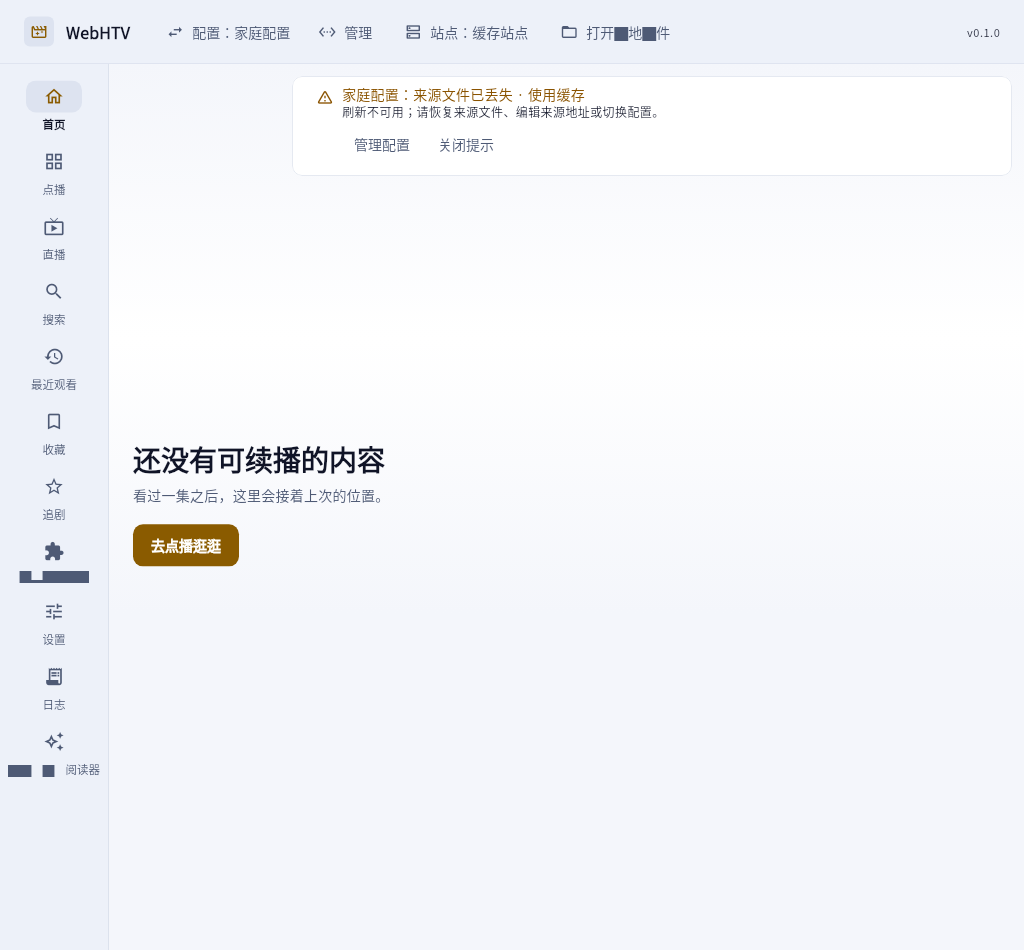
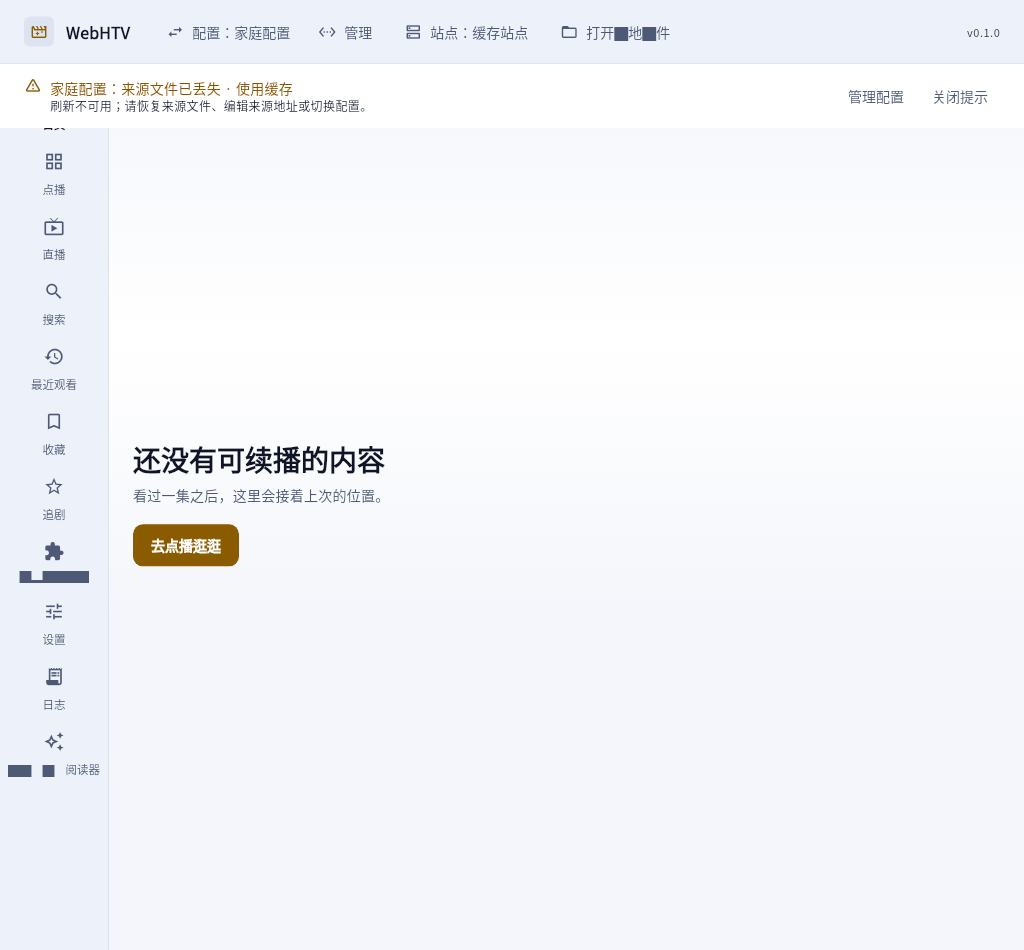
修复：启动通知保留顶部横条原位，仅改为悬浮不占布局
横条位置、宽度、文案与按钮保持不变，从布局流中移出改为悬浮层；关闭后侧栏与内容区不再跳动。补充全宽与贴顶位置的回归断言。

Changed region(s): [[0.0, 0.0611, 0.625, 0.1832], [0.9062, 0.0916, 0.9688, 0.1221], [0.8125, 0.0916, 0.875, 0.1221]]

diff --git a/apps/desktop-flutter/lib/ui/app.dart b/apps/desktop-flutter/lib/ui/app.dart
@@ -1052,72 +1052,47 @@ class _AppShellState extends State<AppShell> {
             onOpenLocalFile: _openLocalMediaFile,
           ),
           Expanded(
-            child: Row(
+            child: Stack(
+              fit: StackFit.expand,
               children: [
-                AppSideBar(
-                  section: _section,
-                  updateCount: _state.followingUpdateCount,
-                  onSelect: (value) => setState(() {
-                    // 手动进搜索页 = 一次全新的搜索，丢掉首页带过来的词。
-                    if (value == ShellSection.search) {
-                      _pendingSearchKeyword = null;
-                    }
-                    _section = value;
-                  }),
-                ),
-                const VerticalDivider(width: 1),
-                Expanded(
-                  child: _WallpaperBackdrop(
-                    url: _state.config?.wallpaper,
-                    child: Stack(
-                      fit: StackFit.expand,
-                      children: [
-                        AppShellTransition(
+                Row(
+                  children: [
+                    AppSideBar(
+                      section: _section,
+                      updateCount: _state.followingUpdateCount,
+                      onSelect: (value) => setState(() {
+                        // 手动进搜索页 = 一次全新的搜索，丢掉首页带过来的词。
+                        if (value == ShellSection.search) {
+                          _pendingSearchKeyword = null;
+                        }
+                        _section = value;
+                      }),
+                    ),
+                    const VerticalDivider(width: 1),
+                    Expanded(
+                      child: _WallpaperBackdrop(
+                        url: _state.config?.wallpaper,
+                        child: AppShellTransition(
                           sectionIndex: _section.index,
                           child: _buildContent(),
                         ),
-                        if (startupNotifications.isNotEmpty)
-                          Positioned.fill(
-                            child: Padding(
-                              padding: const EdgeInsets.all(AppSpace.md),
-                              child: Align(
-                                alignment: Alignment.topRight,
-                                child: ConstrainedBox(
-                                  constraints: const BoxConstraints(
-                                    maxWidth: 720,
-                                  ),
-                                  child: SingleChildScrollView(
-                                    primary: false,
-                                    child: Column(
-                                      mainAxisSize: MainAxisSize.min,
-                                      spacing: AppSpace.sm,
-                                      children: [
-                                        for (final notification
-                                            in startupNotifications)
-                                          Material(
-                                            shape: RoundedRectangleBorder(
-                                              borderRadius: AppRadius.mdAll,
-                                              side: BorderSide(
-                                                color: Theme.of(context)
-                                                    .colorScheme
-                                                    .outlineVariant
-                                                    .withValues(alpha: 0.6),
-                                              ),
-                                            ),
-                                            clipBehavior: Clip.antiAlias,
-                                            child: notification,
-                                          ),
-                                      ],
-                                    ),
-                                  ),
-                                ),
-                              ),
-                            ),
-                          ),
-                      ],
+                      ),
+                    ),
+                  ],
+                ),
+                if (startupNotifications.isNotEmpty)
+                  Positioned.fill(
+                    child: Align(
+                      alignment: Alignment.topCenter,
+                      child: SingleChildScrollView(
+                        primary: false,
+                        child: Column(
+                          mainAxisSize: MainAxisSize.min,
+                          children: startupNotifications,
+                        ),
+                      ),
                     ),
                   ),
-                ),
               ],
             ),
           ),

diff --git a/apps/desktop-flutter/test/config_source_status_ui_test.dart b/apps/desktop-flutter/test/config_source_status_ui_test.dart
@@ -151,6 +151,10 @@ void main() {
     expect(find.textContaining('刷新不可用'), findsOneWidget);
     final sidebarWithWarning = tester.getRect(find.byType(AppSideBar));
     final contentWithWarning = tester.getRect(find.byType(AppShellTransition));
+    final warning = tester.getRect(find.byKey(const ValueKey('config-source-restored-warning')));
+    expect(warning.left, 0, reason: 'Preserve the original full-width top banner');
+    expect(warning.right, 1280);
+    expect(warning.top, 64, reason: 'Keep the banner immediately below the top bar');
     await tester.tap(find.byKey(const ValueKey('config-source-manage')));
     await tester.pumpAndSettle();
     expect(find.byType(ConfigPage), findsOneWidget);
@@ -178,11 +182,11 @@ void main() {
       await tester.pumpAndSettle();
       expect(tester.widget<AppSideBar>(find.byType(AppSideBar)).section, isNot(section),
         reason: 'The empty area outside the notification must not intercept content clicks');
-      await tester.tap(find.text('首页'));
-      await tester.pumpAndSettle();
       await tester.tap(find.byKey(const ValueKey('config-source-dismiss')));
       await tester.pumpAndSettle();
       expect(find.byKey(const ValueKey('config-source-restored-warning')), findsNothing);
+      await tester.tap(find.text('首页'));
+      await tester.pumpAndSettle();
       expect(tester.getRect(find.byType(AppSideBar)), sidebar);
       expect(tester.getRect(find.byType(AppShellTransition)), content);
       expect(tester.takeException(), isNull);
